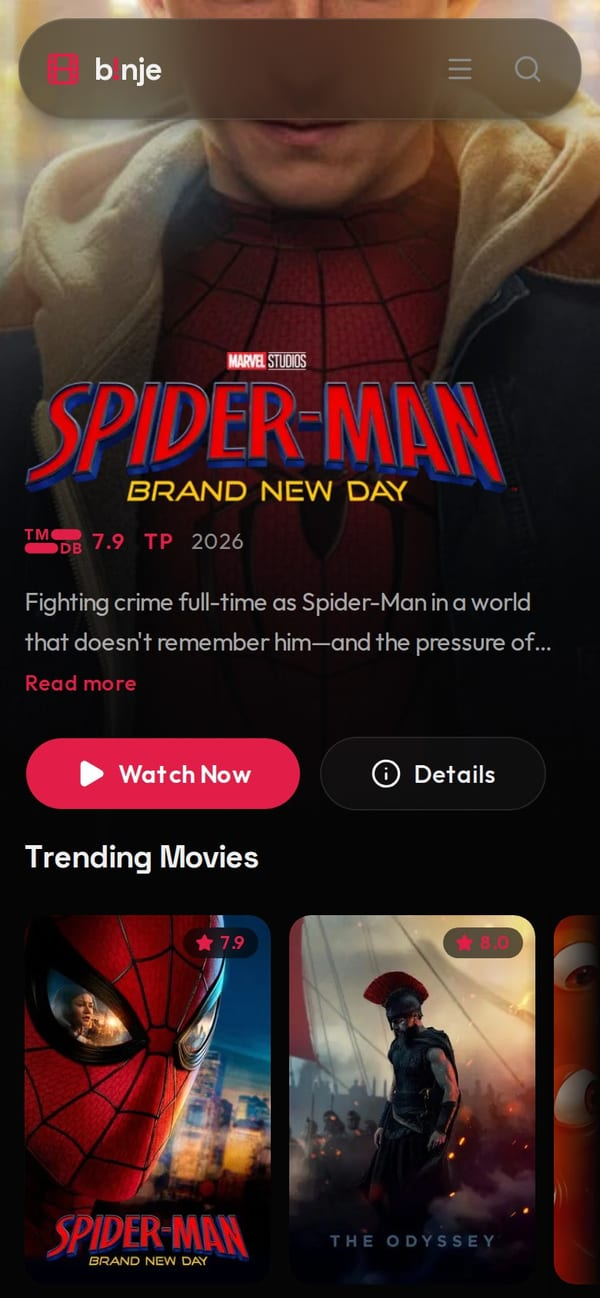
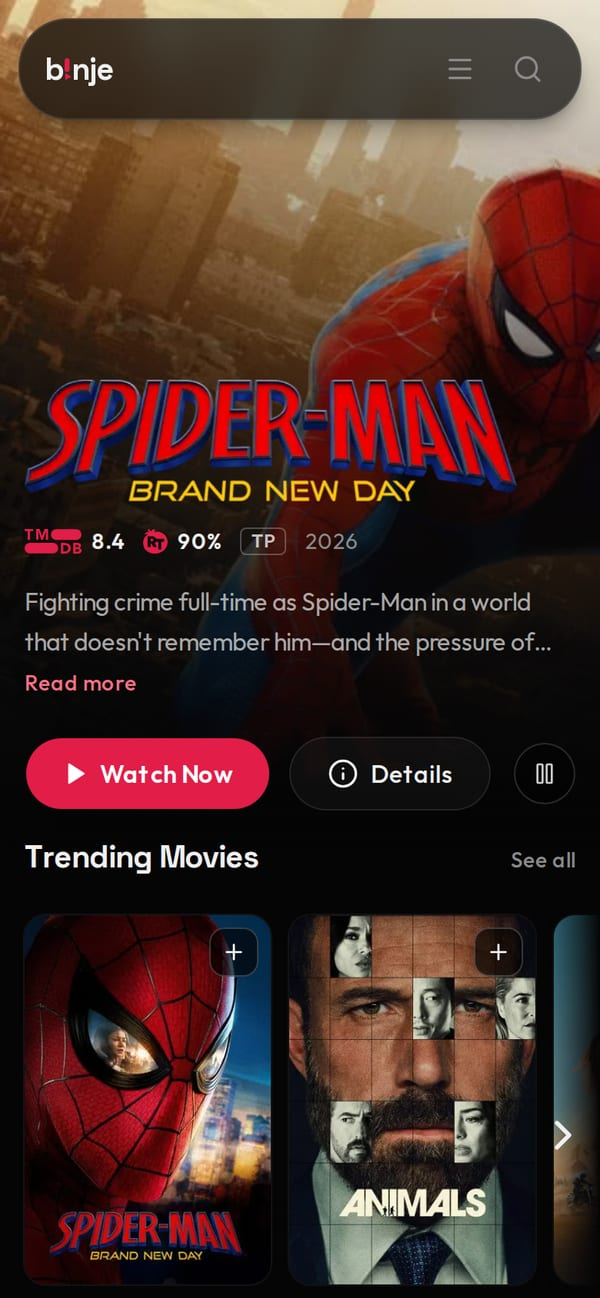
docs: update screenshots and README
- Refresh desktop and mobile screenshots for home, movie, tv, and search
- Update README descriptions to reflect current UI details

diff --git a/README.md b/README.md
@@ -43,15 +43,15 @@
 
 ![Home page with rotating hero and trending carousels](public/screenshots/home-desktop.jpg)
 
-Home: auto-rotating hero with TMDB rating and content certification, followed by trending carousels.
+Home: auto-rotating hero with title logo, TMDB and Rotten Tomatoes scores, certification, and a pause control, followed by trending carousels.
 
 ![Movie detail page for Fight Club](public/screenshots/movie-desktop.jpg)
 
-Movie detail: poster, TMDB and Rotten Tomatoes scores, runtime, stream tech badges, watchlist button.
+Movie detail: poster, title logo, TMDB and Rotten Tomatoes scores, certification, runtime, release date, watchlist button.
 
 ![TV show detail page for Breaking Bad](public/screenshots/tv-desktop.jpg)
 
-TV detail: season and episode counts alongside the same ratings and playback badges.
+TV detail: season and episode counts alongside the same ratings, certification, and first air date.
 
 ![Search results for the query dune](public/screenshots/search-desktop.jpg)
 
